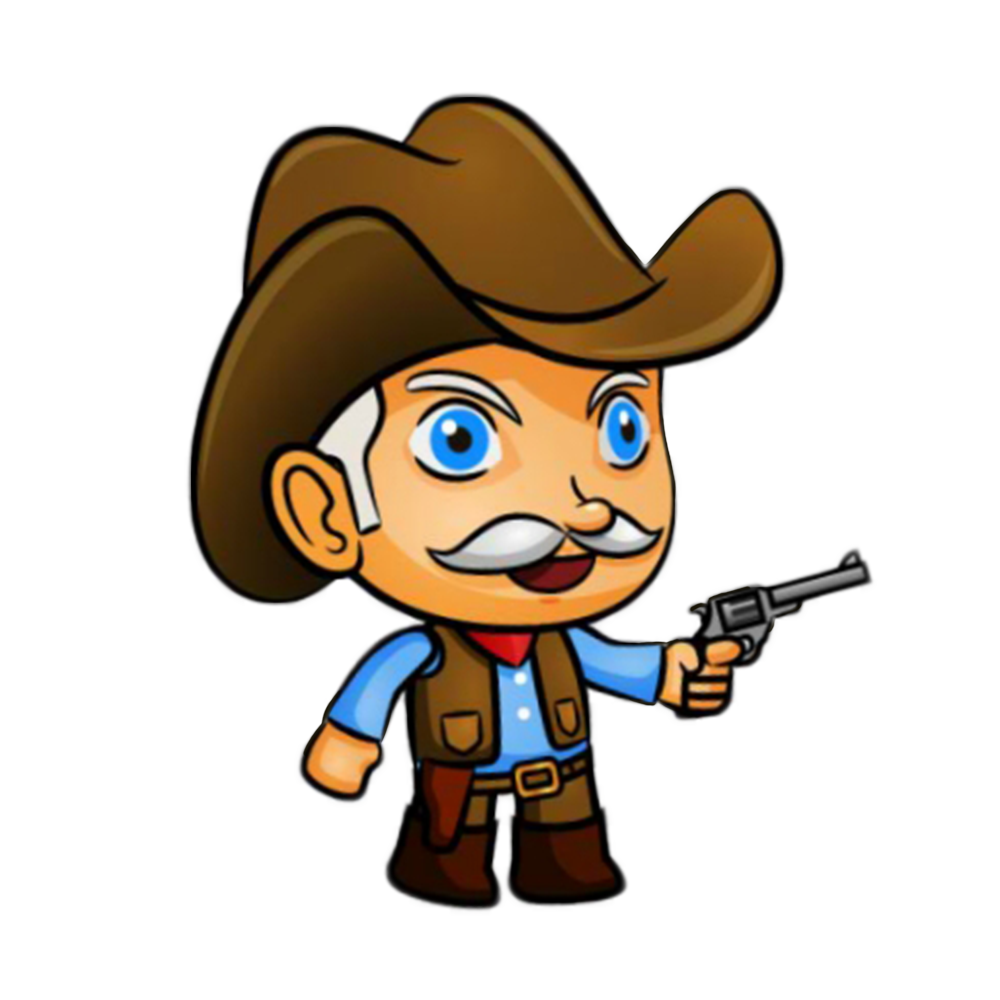
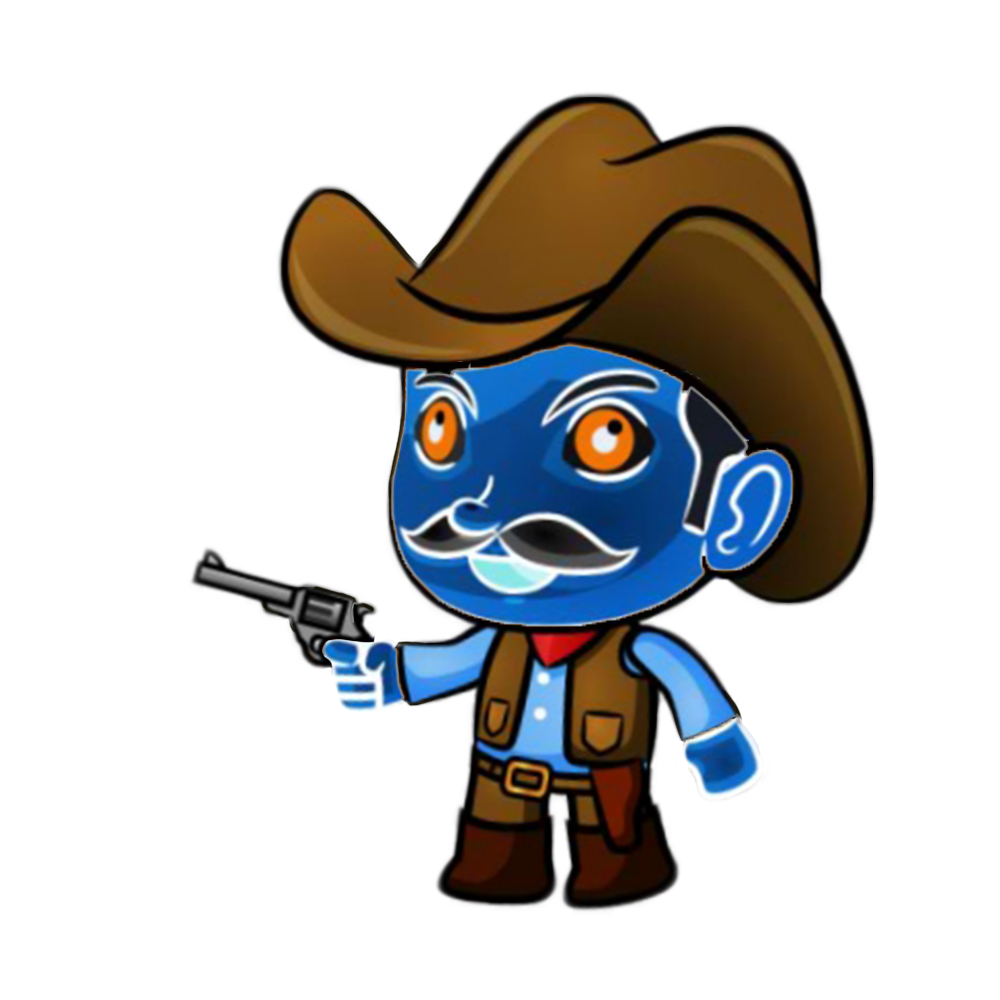
cowboy image replacement for inverted character

diff --git a/client/src/components/Player.js b/client/src/components/Player.js
@@ -1,6 +1,6 @@
 import React from "react";
 import playerImage1 from "../images/cowboy.png"; 
-import playerImage2 from "../images/cowboy2.png"; 
+import playerImage2 from "../images/cowboy.png"; 
 
 const Player = ({ playerNumber }) => {
 
